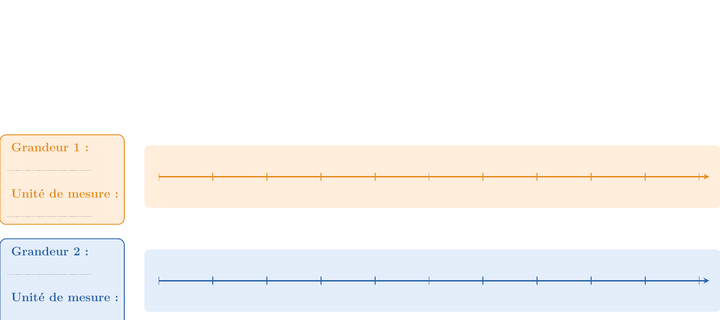
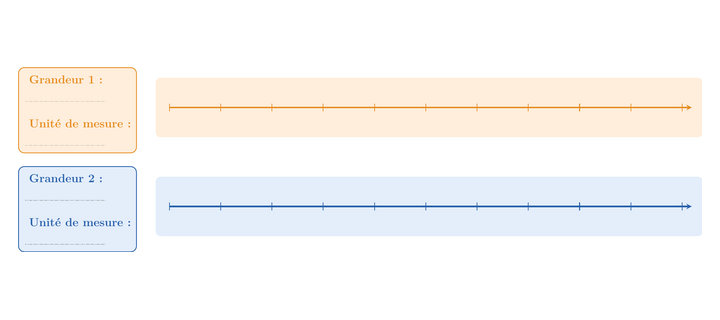
Améliorer les cartes de proportionnalité

diff --git a/assets/js/catalogue-refonte-data.js b/assets/js/catalogue-refonte-data.js
@@ -614,7 +614,7 @@ window.MATHSGO_CATALOGUE = {
       "primaryGroup": "activites",
       "collections": [],
       "tags": ["proportionnalite", "agrandissement", "reduction", "puzzle", "brousseau"],
-      "thumbnail": "assets/img/thumbnails/proportionnalite/puzzle-brousseau.png?v=1",
+      "thumbnail": "assets/img/thumbnails/proportionnalite/puzzle-brousseau.png?v=2",
       "cardDescription": "Étudier agrandissement et réduction à partir des six pièces du puzzle de Brousseau."
     },
     "outils/gabarits_pourcentages.pdf": {
@@ -805,7 +805,7 @@ window.MATHSGO_CATALOGUE = {
       "primaryGroup": "imprimer",
       "collections": [],
       "tags": ["proportionnalite", "double-ligne-graduee", "gabarit", "imprimable"],
-      "thumbnail": "assets/img/thumbnails/proportionnalite/double-ligne-graduee.png?v=1"
+      "thumbnail": "assets/img/thumbnails/proportionnalite/double-ligne-graduee.png?v=2"
     },
     "outils/gabarit_proportionnalite_tableau_sans_coefficient.pdf": {
       "primaryNotion": "proportionnalite",
@@ -1156,6 +1156,22 @@ window.MATHSGO_CATALOGUE = {
     }
   },
   "resourceFamilies": [
+    {
+      "id": "gabarits-proportionnalite-tableaux",
+      "title": "Tableaux de proportionnalité",
+      "description": "Choisir un tableau avec ou sans affichage du coefficient de proportionnalité.",
+      "cardDescription": "Deux versions à imprimer selon que le coefficient de proportionnalité doit apparaître ou non.",
+      "thumbnail": "assets/img/thumbnails/proportionnalite/gabarits-tableaux.png?v=1",
+      "group": "imprimer",
+      "labels": {
+        "outils/gabarits_proportionnalite_tableaux.pdf": "Avec coefficient",
+        "outils/gabarit_proportionnalite_tableau_sans_coefficient.pdf": "Sans coefficient"
+      },
+      "paths": [
+        "outils/gabarits_proportionnalite_tableaux.pdf",
+        "outils/gabarit_proportionnalite_tableau_sans_coefficient.pdf"
+      ]
+    },
     {
       "id": "chat-cest-toi-le-chat-imprimer",
       "title": "Chat, c’est toi le chat ! — À imprimer",

diff --git a/outils/index.html b/outils/index.html
@@ -31,7 +31,7 @@
   <link rel="stylesheet" href="../assets/css/catalogue-refonte.css?v=classement-20260808-2">
   <link rel="stylesheet" href="../assets/css/consentement.css">
   <script defer src="../assets/js/consentement.js"></script>
-  <script defer src="../assets/js/catalogue-refonte-data.js?v=chat-final-20260810-4"></script>
+  <script defer src="../assets/js/catalogue-refonte-data.js?v=proportionnalite-20260810-1"></script>
   <script defer src="../assets/js/mathsgo-icon-library.js?v=icons-library-20260719-9"></script>
   <script defer src="../assets/js/daily-metronome.js?v=20260719-1"></script>
   <script defer src="../assets/js/mathgo-generative-icons.js?v=20260716-1"></script>
